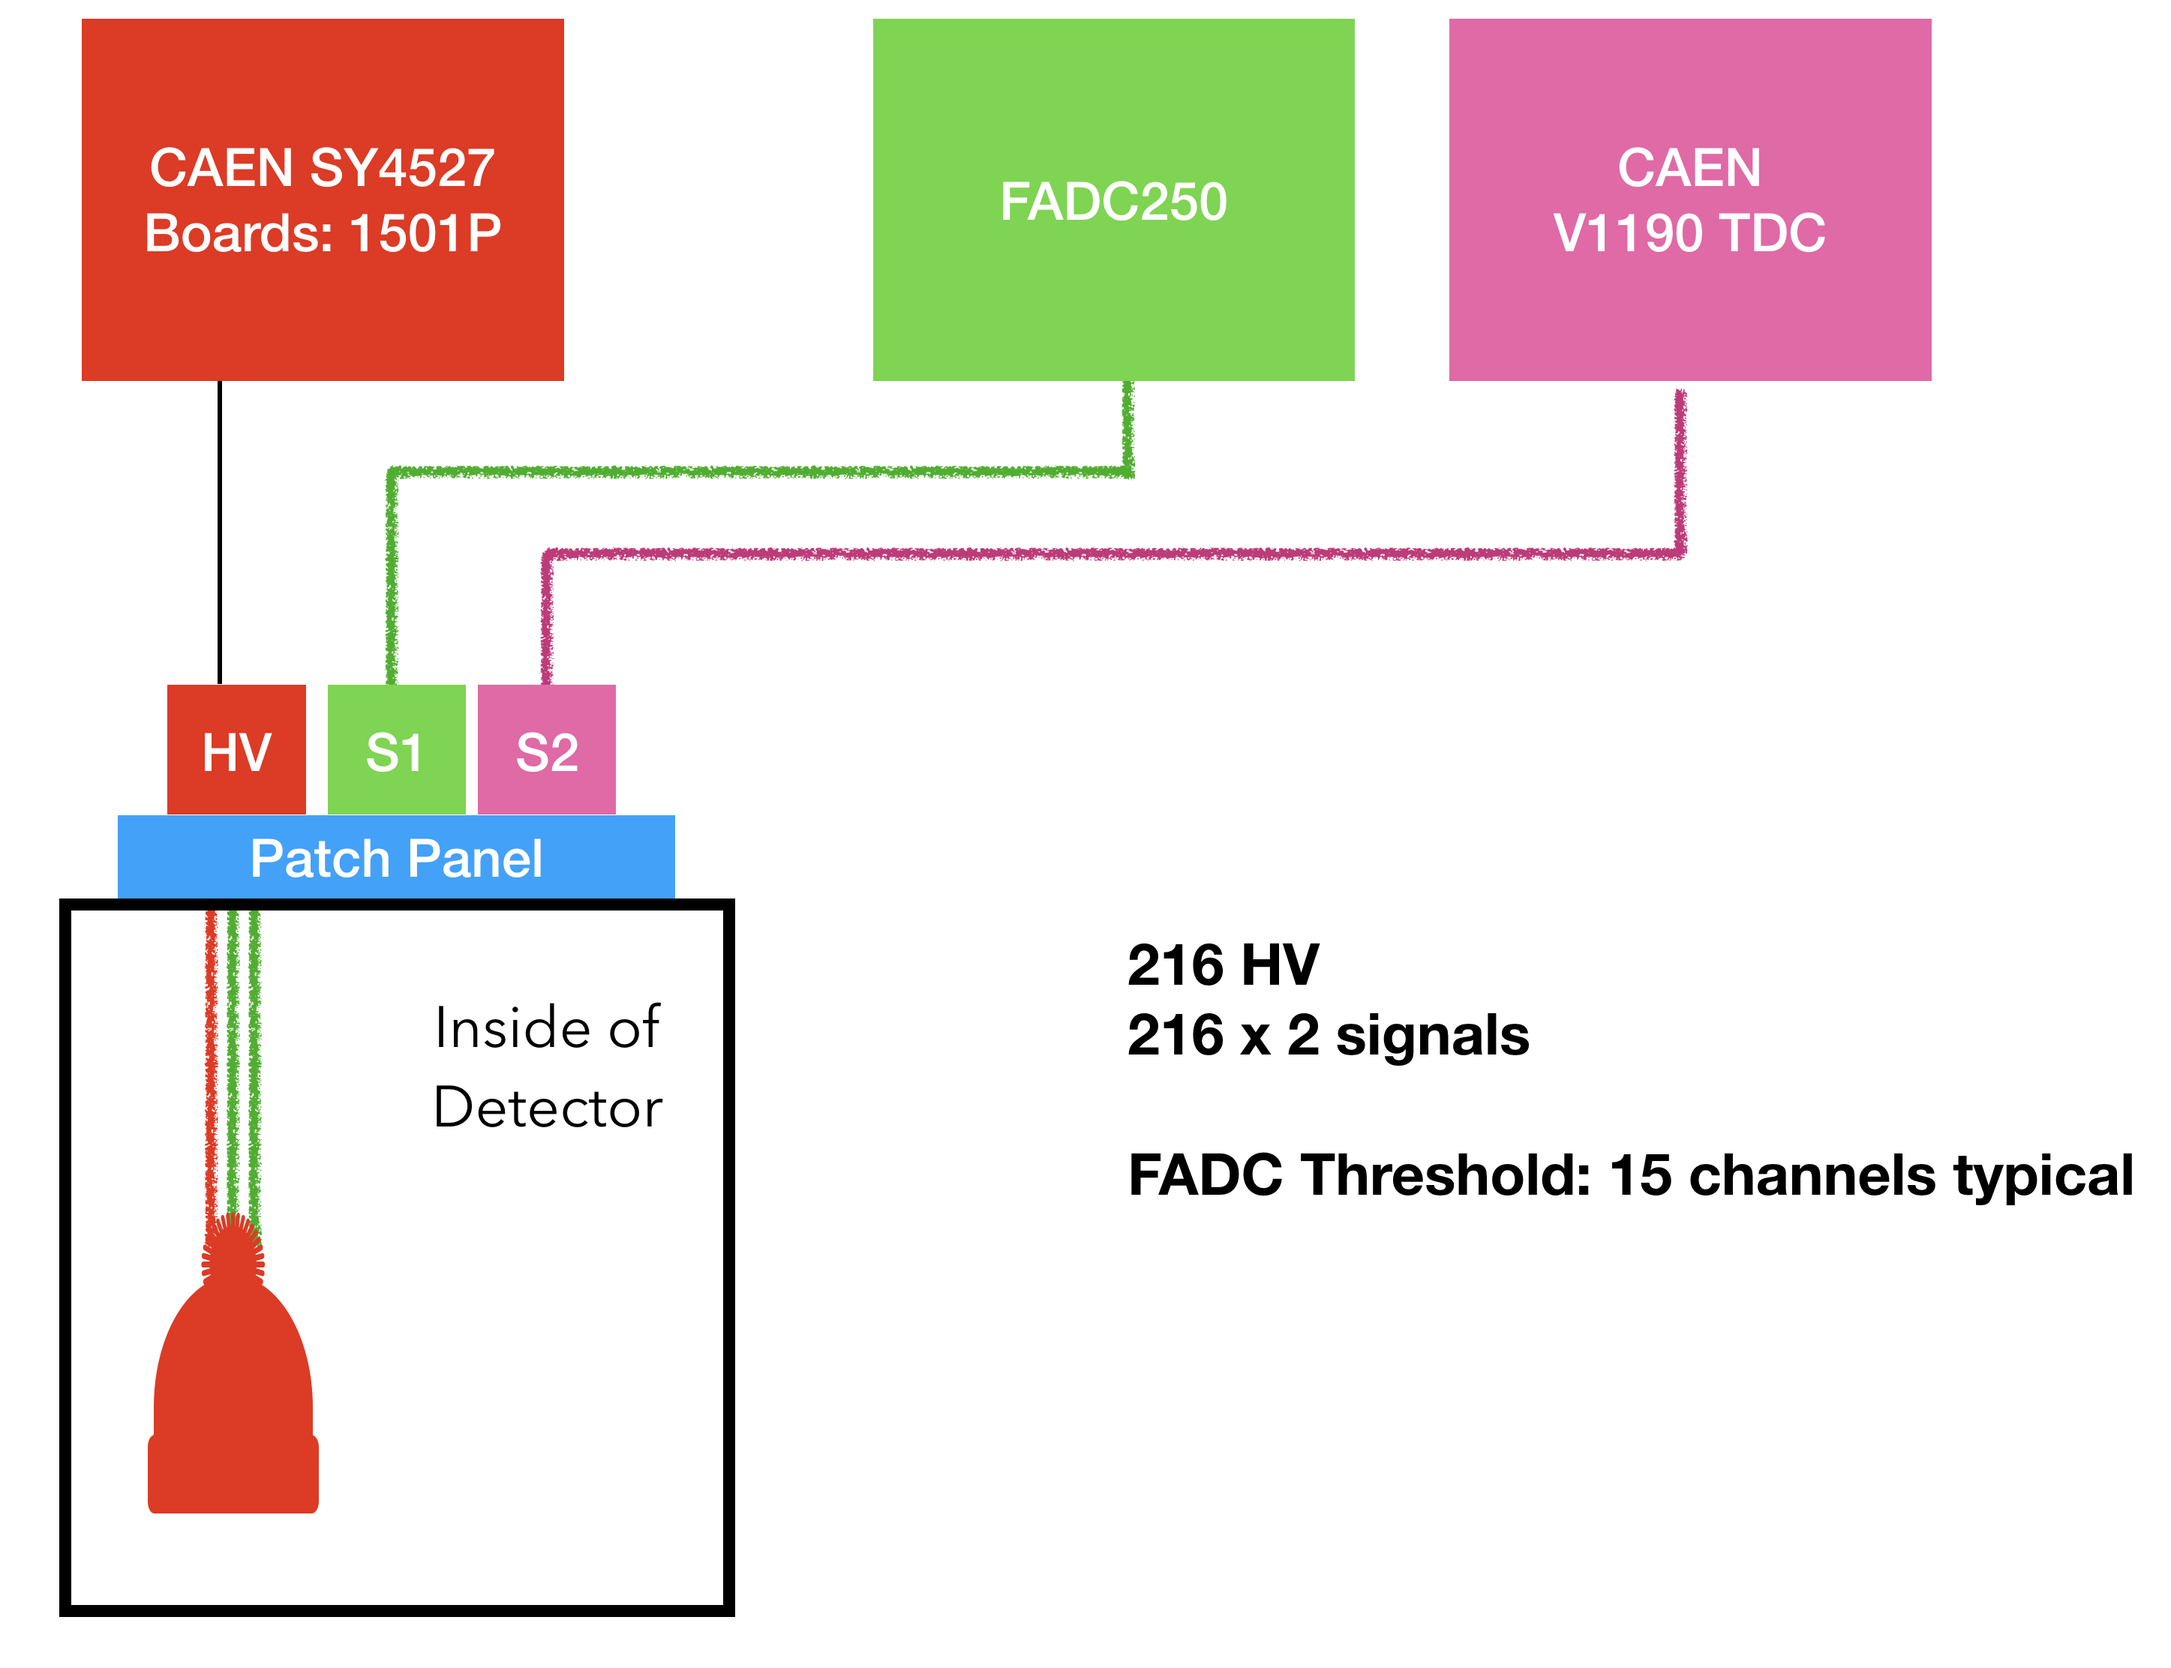
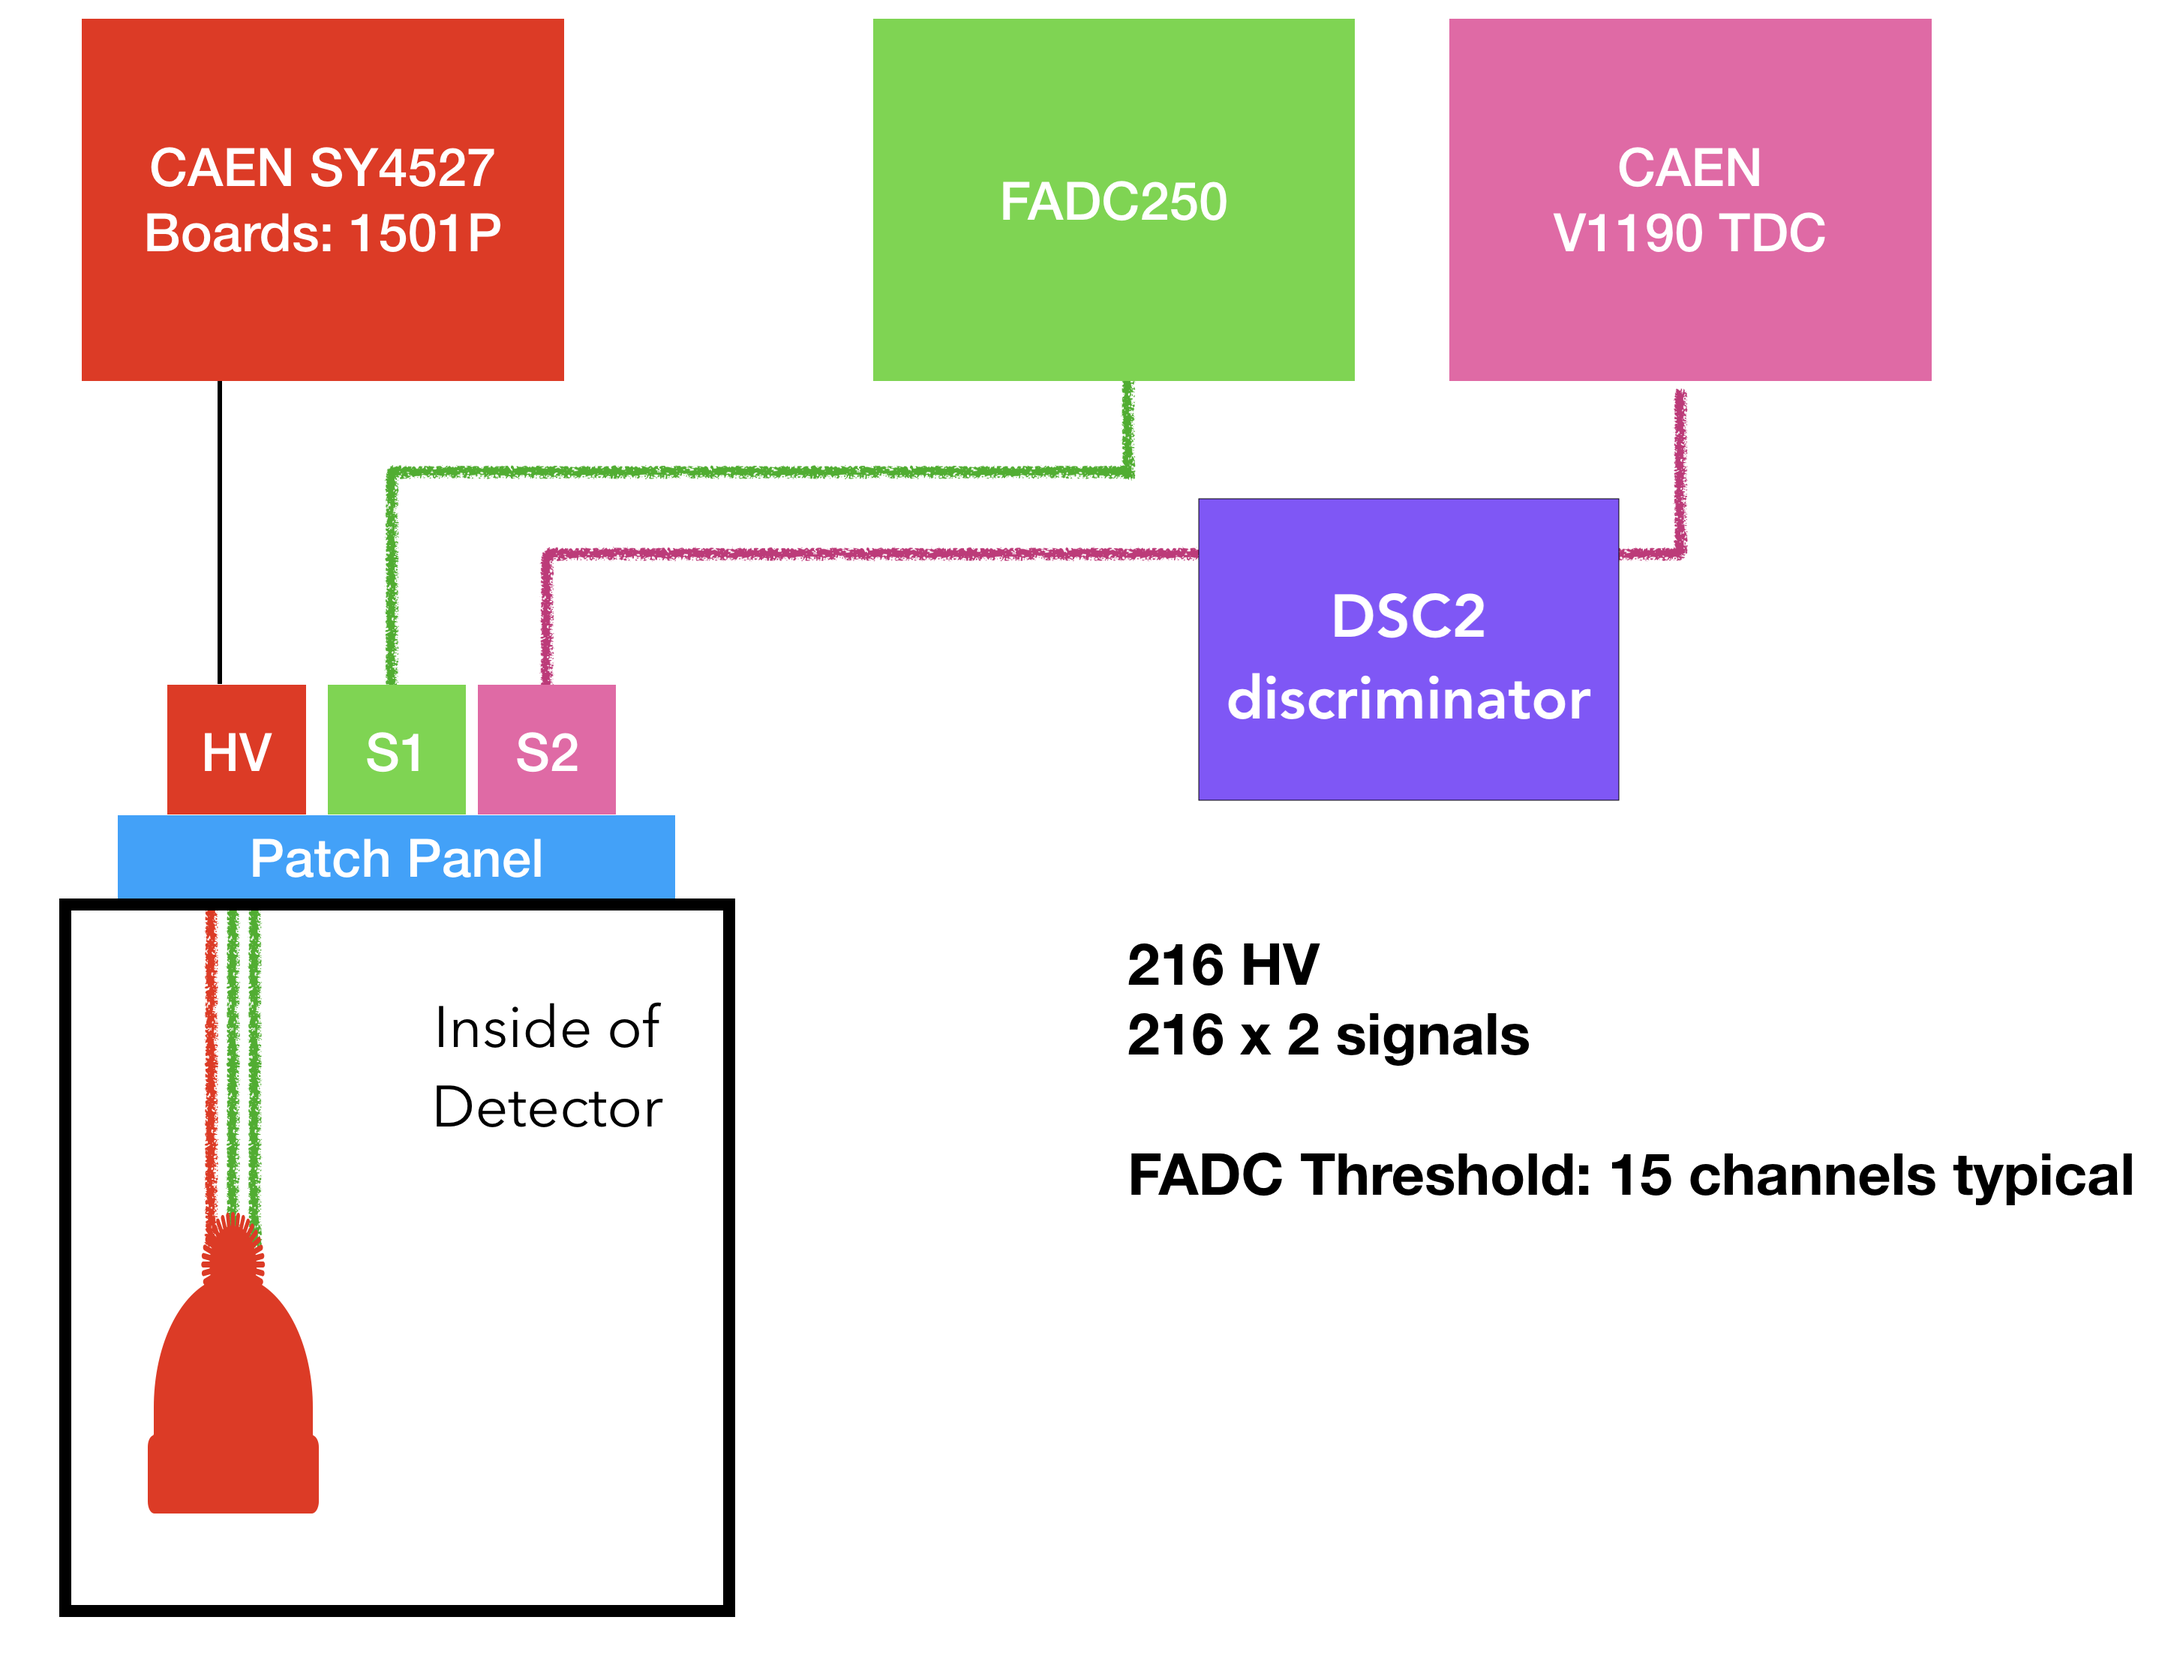
merging readout and electronic files. Adding content for them.

Changed region(s): [[0.5287, 0.2792, 0.7464, 0.4964]]

diff --git a/ltcc/readoutelectronics.tex b/ltcc/readoutelectronics.tex
@@ -1,0 +1,47 @@
+\section{Electronics}
+
+\F{electronicScheme} shows a schematic diagram of the electronics and readout used for the Cherenkov detector.
+
+The XP4500B Photonis photomultiplier are powered in positive polarity by a CAEN SY4527 outfitted with 1501P boards.
+
+There are two anode signals from the tubes. One of the anode signals is connected directly to Flash ADC
+boards built at Jefferson Lab (FADC250)(REF). The FADC sampling frequency is $250 MHz$. The other output is discriminated using a DSC2 unti and connected to CAEN v1190 TDC modules.
+The TDCs were set to have 50ps/channel timing resolution.
+
+The Cherenkov FADC250 and TDC information is read out together with the data from the other detector components using the CEBAF Online Data Acquisition system (CODA).
+
+\begin{figure}
+	\centering
+	\includegraphics[width=0.95\columnwidth,keepaspectratio]{img/electronicScheme.png}
+	\caption{The electronic scheme of the LTCC.}
+	\label{fig:electronicScheme}
+\end{figure}
+
+\section{Readout}
+
+
+\subsection{FADC Mode 1 and Mode 7}
+
+
+In \F{fadc} a typical signal from the FADC250 module is shown. The signal is typically contained in 3-4 time samples (e)ach time samples is 4 ns).
+In order to be written to tape, the signal must pass a 30 channels threshold. The FADC250 then consider a time window 12 ns before the sample
+
+
+\begin{figure}
+	\centering
+	\includegraphics[width=0.95\columnwidth,keepaspectratio]{img/fadc.png}
+	\caption{The FADC250 digitized output as a function of sample index from one of the LTCC channel self triggering on the single photo-electron signal.
+            The CODA system acquire 100 of these samples if the digitized amplitude passes a 30 channels threshold. The sum of the samples between
+				the two arrows results in the integrated charge signal for this event.}
+	\label{fig:fadc}
+\end{figure}
+
+
+
+
+%\begin{figure}
+%	\centering
+%	\includegraphics[width=0.95\columnwidth,keepaspectratio]{img/readout.png}
+%	\caption{The electronic scheme of the LTCC.}
+%	\label{fig:readout}
+%\end{figure}

diff --git a/ltcc/hardware.tex b/ltcc/hardware.tex
@@ -42,8 +42,11 @@ are summarized in Table \ref{tab:ltccChannels}
 			PMTs             & 200 Photonis XP 4500B8    \\
 	                       & 16 Photonis XP 4508       \\
 			Voltage Dividers & Photonis VD305K           \\
+			HV Power Supply  & CAEN SY4527               \\
+			HV Power Supply  & 1501P                     \\
 			Flash ADC        & JLab FADC250-MHz          \\
 			TDC              & Caen 1190                 \\
+			Discriminators   & Caen 1190                 \\
 			\hline \hline
 		\end{tabular}
 	\end{center}

diff --git a/ltcc/ltcc.tex b/ltcc/ltcc.tex
@@ -27,9 +27,8 @@
 \input{overview}
 \input{requirements}
 \input{refurbishment}
-\input{electronics}
+\input{readoutelectronics}
 \input{hardware}
-\input{readout}
 \input{calibration}
 \input{reconstruction}
 \input{simulation}

diff --git a/ltcc/refurbishment.tex b/ltcc/refurbishment.tex
@@ -148,8 +148,6 @@ The design changes of the LTCC are summarized below:
 \input{mirrors}
 \input{wc}
 \input{pmts}
-
 \input{pmtBase}
-
 \input{windows}
 
